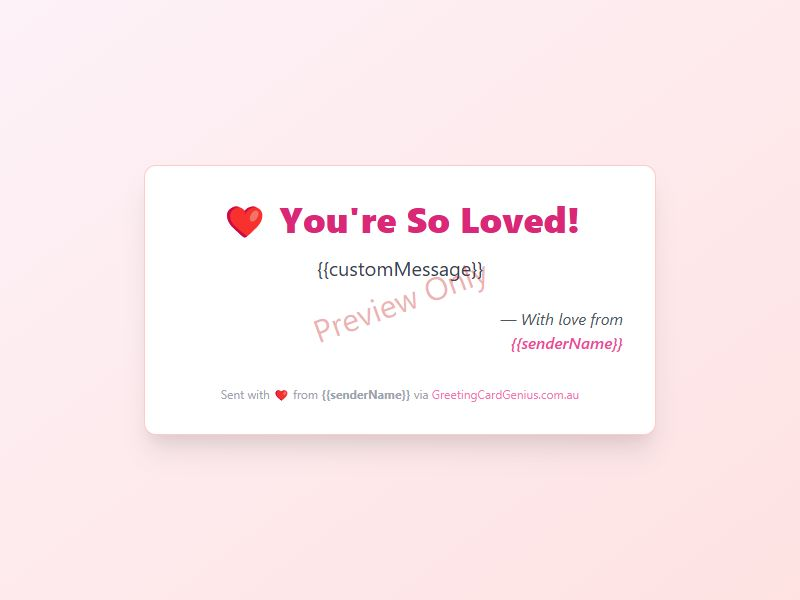
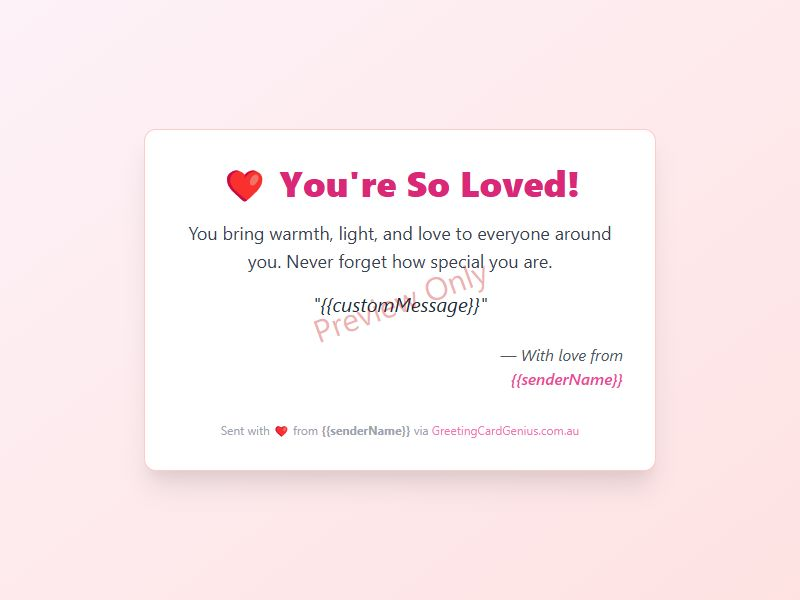
84

Changed region(s): [[0.1562, 0.51, 0.8438, 0.81], [0.25, 0.27, 0.7812, 0.54], [0.2812, 0.63, 0.3125, 0.66]]

diff --git a/templates/congrats.html b/templates/congrats.html
@@ -1,0 +1,104 @@
+<!DOCTYPE html>
+<html lang="en">
+<head>
+  <meta charset="UTF-8" />
+  <meta name="viewport" content="width=device-width, initial-scale=1.0"/>
+  <title>🎓 Congrats Card – Greeting Card Genius</title>
+  <link href="https://cdn.jsdelivr.net/npm/tailwindcss@2.2.19/dist/tailwind.min.css" rel="stylesheet">
+  <link rel="icon" href="/assets/favicon.jpg" type="image/jpeg" />
+</head>
+<body class="bg-white text-gray-800 font-sans">
+
+<!-- Header -->
+<header class="p-6 border-b text-center">
+  <div class="flex flex-col items-center space-y-2">
+    <img src="/assets/logo.jpg" alt="Greeting Card Genius Logo" class="h-16 w-16 rounded shadow" />
+    <div>
+      <a href="/" class="text-2xl font-bold hover:underline">Greeting Card Genius</a>
+      <p class="text-sm text-gray-600">AI-generated cards for every occasion</p>
+    </div>
+    <nav class="space-x-4 text-sm pt-2">
+      <a href="#" class="hover:underline">Instagram</a>
+      <a href="#" class="hover:underline">Facebook</a>
+      <a href="#" class="hover:underline">Twitter/X</a>
+      <a href="/about.html" class="hover:underline">About</a>
+      <a href="/contact.html" class="hover:underline">Contact</a>
+      <a href="/faq.html" class="hover:underline">FAQ</a>
+    </nav>
+  </div>
+</header>
+
+<a href="/" class="inline-block mb-4 text-sm text-blue-600 hover:underline text-center w-full">
+  ← Back to Templates
+</a>
+
+<main class="max-w-xl mx-auto p-8 text-center">
+  <h1 class="text-2xl font-bold mb-4">🎓 Congratulations!</h1>
+  <p class="mb-6">Celebrate someone's big achievement with a personalized congrats card.</p>
+
+  <img src="/previews/congrats.jpg" alt="Congrats Card Preview" class="w-full max-w-xs mx-auto mb-6 rounded shadow" />
+
+  <div class="space-y-4">
+    <input type="text" id="senderName" placeholder="Your Name" class="border p-2 rounded w-full max-w-md mx-auto block" />
+    <textarea id="customMessage" placeholder="Optional message to include..." class="border p-2 rounded w-full max-w-md mx-auto block mt-2"></textarea>
+    <input type="email" id="email" placeholder="Recipient's Email" class="border p-2 rounded w-full max-w-md mx-auto block" />
+
+    <button type="button" onclick="handleBuyAndPay()" class="mt-4 bg-blue-600 text-white px-6 py-2 rounded hover:bg-blue-700">
+      Buy & Send – $1.99 AUD
+    </button>
+  </div>
+</main>
+
+<!-- Footer -->
+<footer class="mt-12 text-center text-sm text-gray-500 p-4 border-t">
+  <p>&copy; 2025 Greeting Card Genius · A division of <a href="https://quantumnova.com.au" target="_blank" class="text-blue-600 font-semibold">QUANTUMNOVA</a></p>
+  <p>Registered in Australia | ABN 43686016526</p>
+  <p class="mt-2">
+    <a href="/privacy.html" class="hover:underline">Privacy Policy</a> |
+    <a href="/refund.html" class="hover:underline">Refund Policy</a> |
+    <a href="/terms.html" class="hover:underline">Terms & Conditions</a>
+  </p>
+</footer>
+
+<script>
+  async function handleBuyAndPay() {
+    const recipientEmail = document.getElementById('email').value.trim();
+    const senderName = document.getElementById('senderName').value.trim();
+    const customMessage = document.getElementById('customMessage').value.trim() || "Wishing you continued success and happiness!";
+    const subject = "🎓 Congrats from GreetingCardGenius!";
+    const templateName = "congrats-card.html";
+
+    if (!recipientEmail) {
+      alert("Please enter a recipient's email.");
+      return;
+    }
+
+    const payload = {
+      toEmail: recipientEmail,
+      subject,
+      templateName,
+      customMessage,
+      senderName
+    };
+
+    try {
+      const res = await fetch("/api/create-stripe-session", {
+        method: "POST",
+        headers: { "Content-Type": "application/json" },
+        body: JSON.stringify(payload)
+      });
+
+      const result = await res.json();
+      if (result.payment_url) {
+        window.location.href = result.payment_url;
+      } else {
+        alert("❌ Error initiating payment: " + (result.error || "Unknown error"));
+      }
+    } catch (err) {
+      alert("⚠ Network error: " + err.message);
+    }
+  }
+</script>
+
+</body>
+</html>

diff --git a/cards/love-card.html b/cards/love-card.html
@@ -6,23 +6,33 @@
   <meta name="viewport" content="width=device-width, initial-scale=1.0" />
   <link href="https://cdn.jsdelivr.net/npm/tailwindcss@2.2.19/dist/tailwind.min.css" rel="stylesheet">
 </head>
-<body class="bg-gradient-to-br from-pink-50 to-red-100 text-gray-800 flex items-center justify-center h-screen font-sans">
+<body class="bg-gradient-to-br from-pink-50 to-red-100 text-gray-800 flex items-center justify-center min-h-screen font-sans">
 
   <div class="max-w-lg w-full bg-white shadow-xl rounded-xl p-8 text-center border border-red-200">
     <h1 class="text-3xl sm:text-4xl font-extrabold text-pink-600 mb-4">❤ You're So Loved!</h1>
-    <p class="text-lg sm:text-xl text-gray-700 leading-relaxed">
-      {{customMessage}}
+
+    <!-- AI-generated message -->
+    <p class="text-base sm:text-lg text-gray-700 mb-4">
+      You bring warmth, light, and love to everyone around you. Never forget how special you are.
     </p>
 
-    <div class="mt-6 text-right text-gray-600 italic">
-      — With love from<br>
+    <!-- User's custom message -->
+    <blockquote class="text-lg sm:text-xl text-gray-800 leading-relaxed italic mb-6">
+      "{{customMessage}}"
+    </blockquote>
+
+    <!-- Footer signature -->
+    <div class="text-right text-gray-600 italic">
+      — With love from<br/>
       <span class="font-semibold text-pink-500">{{senderName}}</span>
     </div>
 
+    <!-- Site credit footer -->
     <footer class="mt-8 text-xs text-gray-400">
-  Sent with ❤ from <strong>{{senderName}}</strong> via 
-  <a href="https://greetingcardgenius.com.au" class="text-pink-400 hover:underline">GreetingCardGenius.com.au</a>
-</footer>
+      Sent with ❤ from <strong>{{senderName}}</strong> via 
+      <a href="https://greetingcardgenius.com.au" class="text-pink-400 hover:underline">GreetingCardGenius.com.au</a>
+    </footer>
+  </div>
 
 </body>
 </html>

diff --git a/cards/thankyou-card.html b/cards/thankyou-card.html
@@ -11,17 +11,22 @@
   <div style="background: #ffffff15; border: 2px solid #bbf7d0; padding: 2rem; border-radius: 12px; max-width: 600px; margin: auto; box-shadow: 0 10px 25px rgba(0,0,0,0.2);">
     <h1 style="font-size: 2.5rem; font-weight: 700; color: #dcfce7;">🙏 Thank You!</h1>
 
-    <!-- Custom Message -->
-    <blockquote style="margin: 2rem auto; font-style: italic; font-size: 1.2rem; color: #f0fdf4;">
+    <!-- AI-generated default message -->
+    <p style="margin-top: 1.5rem; font-size: 1.15rem; color: #f0fdf4;">
+      Your kindness truly made a difference. Thank you for being amazing.
+    </p>
+
+    <!-- Custom message -->
+    <blockquote style="margin: 2rem auto 1rem; font-style: italic; font-size: 1.2rem; color: #f0fdf4;">
       "{{customMessage}}"
     </blockquote>
 
     <!-- Footer -->
-<p style="font-size: 0.95rem; color: #e5e7eb; margin-top: 2rem;">
-  — With gratitude from <strong>{{senderName}}</strong> via 
-  <a href="https://greetingcardgenius.com.au" style="color: #bbf7d0; text-decoration: none;">Greeting Card Genius</a>
-</p>
-
+    <p style="font-size: 0.95rem; color: #e5e7eb; margin-top: 2rem;">
+      — With gratitude from <strong>{{senderName}}</strong><br/>
+      <span style="font-size: 0.85rem;">Sent with appreciation by <a href="https://greetingcardgenius.com.au" style="color: #bbf7d0; text-decoration: none;">Greeting Card Genius</a></span>
+    </p>
+  </div>
 
 </body>
 </html>

diff --git a/cards/congrats-card.html b/cards/congrats-card.html
@@ -1,0 +1,30 @@
+<!DOCTYPE html>
+<html lang="en">
+<head>
+  <meta charset="UTF-8" />
+  <title>🎓 Congrats!</title>
+  <meta name="viewport" content="width=device-width, initial-scale=1.0" />
+  <link href="https://cdn.jsdelivr.net/npm/tailwindcss@2.2.19/dist/tailwind.min.css" rel="stylesheet">
+</head>
+<body class="bg-indigo-50 text-center text-gray-800 py-20 px-6 font-sans">
+
+  <div class="max-w-md mx-auto bg-white p-8 rounded-lg shadow-lg border border-indigo-300">
+    <h1 class="text-4xl font-bold text-indigo-600 mb-4">🎓 Congratulations!</h1>
+
+    <!-- AI-generated message -->
+    <p class="text-base sm:text-lg text-gray-700 mb-4">
+      Your hard work and dedication have paid off — this is your moment to shine! 🌟
+    </p>
+
+    <!-- Custom message -->
+    <blockquote class="text-lg text-gray-800 italic mb-6">"{{customMessage}}"</blockquote>
+
+    <!-- Signature -->
+    <p class="text-sm text-gray-500">
+      — Sent with pride by <strong>{{senderName}}</strong> via 
+      <a href="https://greetingcardgenius.com.au" class="text-indigo-500 hover:underline">Greeting Card Genius</a>
+    </p>
+  </div>
+
+</body>
+</html>

diff --git a/utils/sendCard.js b/utils/sendCard.js
@@ -1,12 +1,15 @@
-import { Resend } from 'resend';
-import fs from 'fs/promises';
-import path from 'path';
-
-const resend = new Resend(process.env.RESEND_API_KEY);
-
 export async function sendCard({ toEmail, subject, templateName, customMessage, senderName }) {
   try {
     const cardPath = path.join(process.cwd(), 'cards', templateName);
+    console.log(`📄 Reading card file from: ${cardPath}`);
+
+    // Check if file exists (to avoid silent fails)
+    try {
+      await fs.access(cardPath);
+    } catch {
+      throw new Error(`Card template "${templateName}" not found at ${cardPath}`);
+    }
+
     let html = await fs.readFile(cardPath, 'utf-8');
 
     html = html
@@ -20,9 +23,10 @@ export async function sendCard({ toEmail, subject, templateName, customMessage, 
       html,
     });
 
+    console.log(`✅ Email sent to ${toEmail} using template ${templateName}`);
     return { success: true, data };
   } catch (error) {
-    console.error('❌ Resend error:', error);
+    console.error('❌ sendCard failed:', error);
     throw new Error('Failed to send card: ' + error.message);
   }
 }

diff --git a/templates/thankyou.html b/templates/thankyou.html
@@ -20,7 +20,7 @@
       <textarea name="customMessage" placeholder="Your message..." rows="4" class="w-full p-2 border rounded" required></textarea>
       <input type="email" name="toEmail" placeholder="Recipient's email" class="w-full p-2 border rounded" required />
       <input type="hidden" name="subject" value="Thank You!" />
-      <input type="hidden" name="templateName" value="thankyoucard.html" />
+      <input type="hidden" name="templateName" value="thankyou-card.html" />
       <button type="submit" class="bg-blue-600 text-white px-6 py-2 rounded hover:bg-blue-700">
         Buy & Send – $1.99 AUD
       </button>
